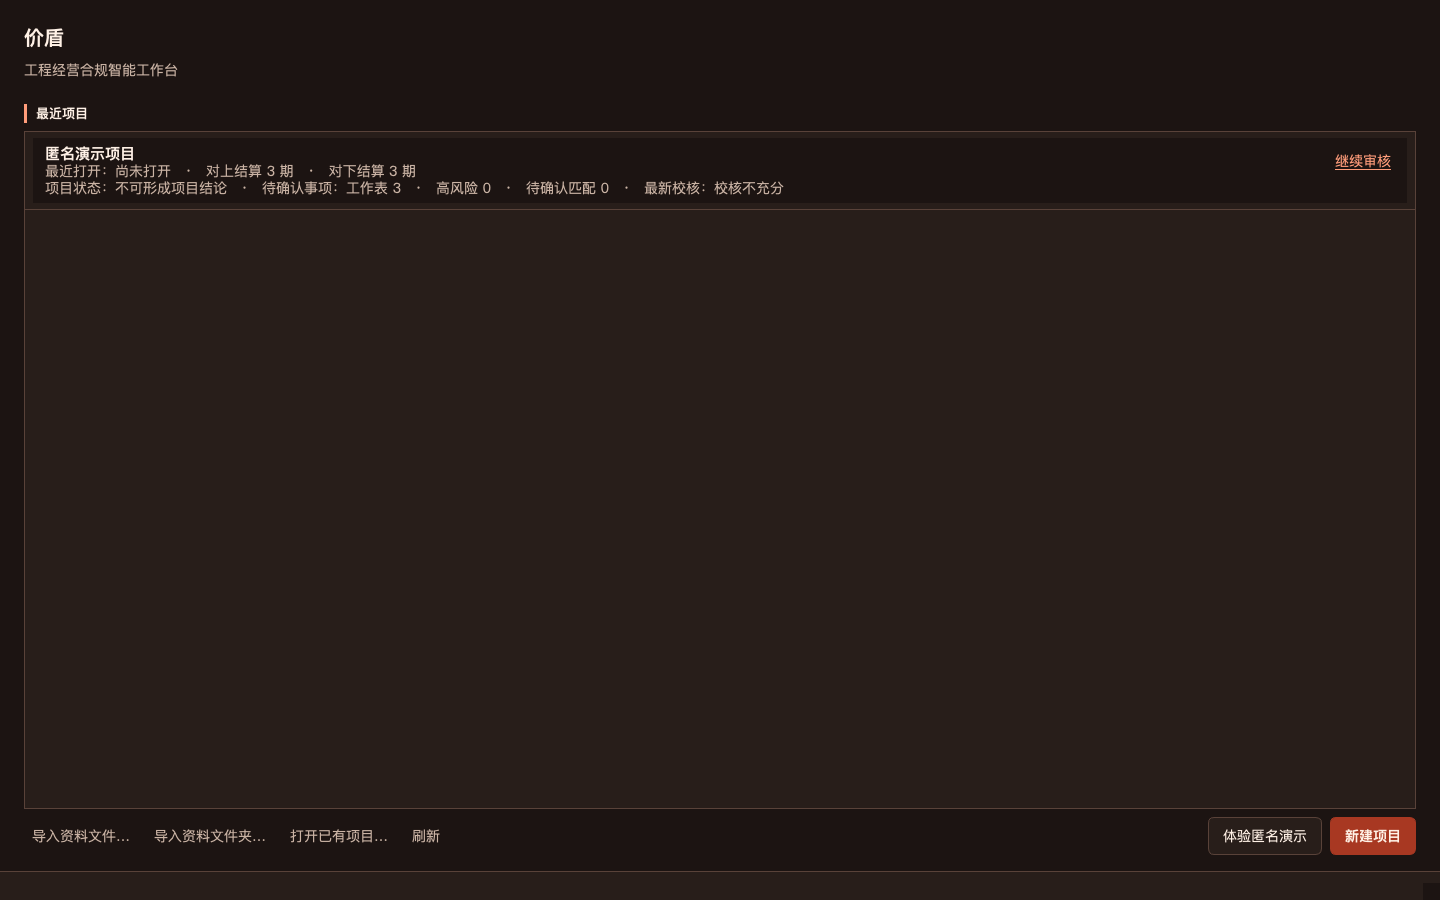
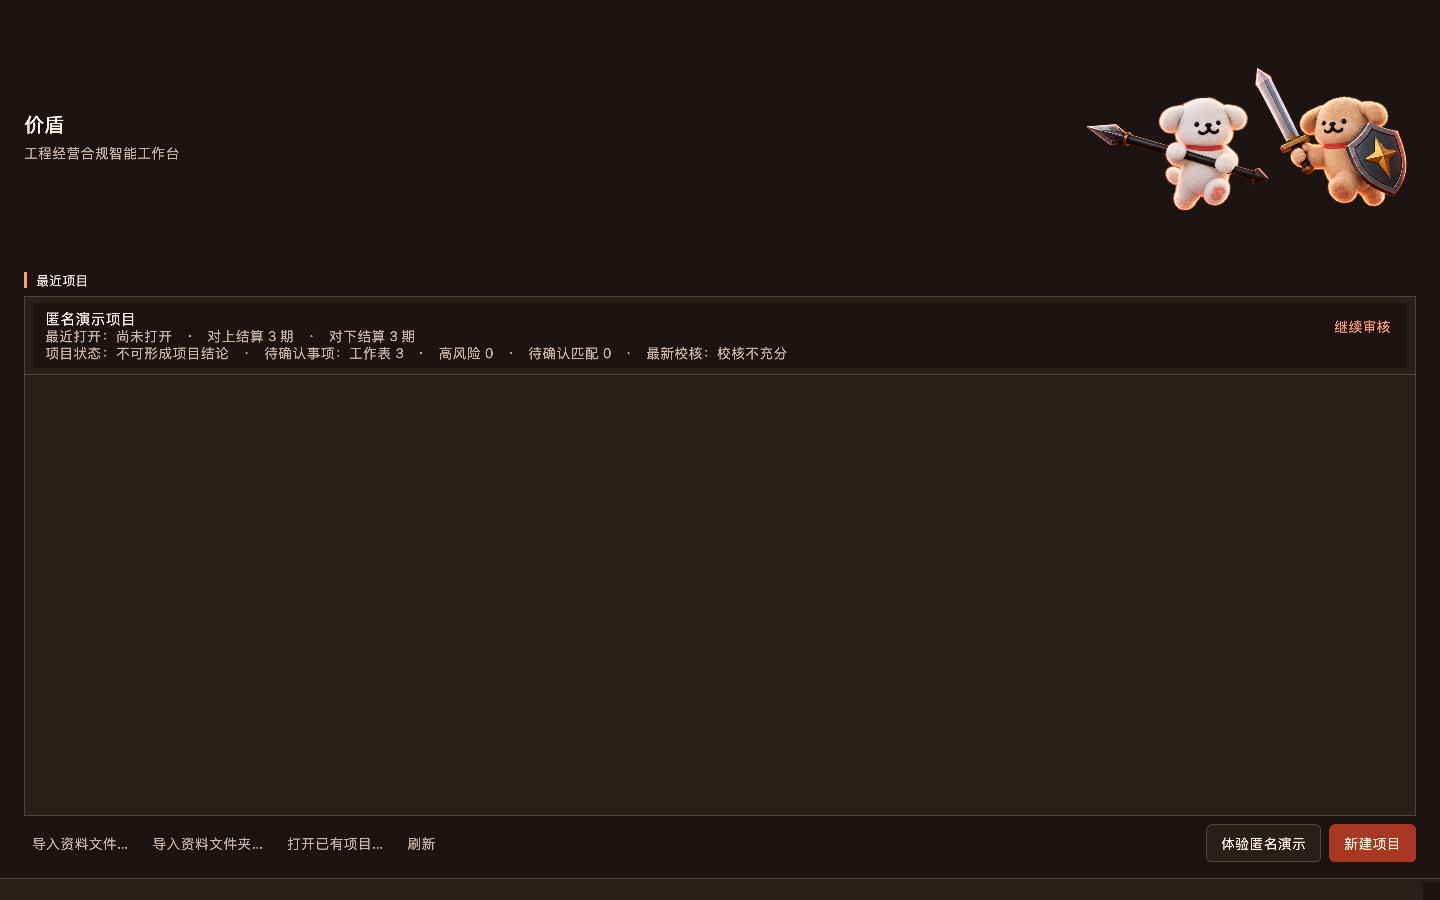
feat(ui): add original-style puppy duo to project home

diff --git a/src/jiadun/ui/main_window.py b/src/jiadun/ui/main_window.py
@@ -7,7 +7,7 @@ from datetime import datetime
 from pathlib import Path
 
 from PySide6.QtCore import QSettings, QSize, Qt
-from PySide6.QtGui import QIcon
+from PySide6.QtGui import QIcon, QPixmap
 from PySide6.QtWidgets import (
     QDialog,
     QDialogButtonBox,
@@ -154,6 +154,7 @@ class MainWindow(QMainWindow):
 
     # ---- 项目列表页 ----
     def _projects_page(self) -> QWidget:
+        from jiadun.platform.resources import home_mascot_path
         from jiadun.ui import theme
 
         central = QWidget()
@@ -167,8 +168,28 @@ class MainWindow(QMainWindow):
         subtitle = QLabel("工程经营合规智能工作台")
         subtitle.setStyleSheet(
             f"color: {theme.TEXT_SECONDARY}; background: transparent;")
-        layout.addWidget(title)
-        layout.addWidget(subtitle)
+        welcome = QHBoxLayout()
+        welcome_copy = QVBoxLayout()
+        welcome_copy.addStretch()
+        welcome_copy.addWidget(title)
+        welcome_copy.addWidget(subtitle)
+        welcome_copy.addStretch()
+        welcome.addLayout(welcome_copy, 1)
+
+        mascot = QLabel()
+        mascot.setObjectName("homeMascot")
+        mascot.setAccessibleName("两只小狗：小白与鸡毛")
+        mascot.setAlignment(Qt.AlignCenter)
+        mascot.setFixedSize(336, 224)
+        pixmap = QPixmap(str(home_mascot_path()))
+        if pixmap.isNull():
+            raise RuntimeError("首页双小狗插图无法读取，请检查安装包资源是否完整")
+        ratio = self.devicePixelRatioF()
+        pixmap = pixmap.scaled(mascot.size() * ratio, Qt.KeepAspectRatio, Qt.SmoothTransformation)
+        pixmap.setDevicePixelRatio(ratio)
+        mascot.setPixmap(pixmap)
+        welcome.addWidget(mascot)
+        layout.addLayout(welcome)
         layout.addSpacing(theme.SP_L)
         layout.addWidget(section_header("最近项目"))
 

diff --git a/tests/unit/test_ui_smoke.py b/tests/unit/test_ui_smoke.py
@@ -31,6 +31,44 @@ def test_new_project_dialog_values():
     assert name == "冒烟项目"
 
 
+def test_home_mascot_loads_from_source_and_bundle(tmp_path, monkeypatch):
+    import shutil
+    import sys
+
+    from PySide6.QtGui import QImage
+    from PySide6.QtWidgets import QApplication, QLabel
+
+    from jiadun import branding
+    from jiadun.platform import resources
+    from jiadun.ui.main_window import MainWindow
+
+    _app = QApplication.instance() or QApplication([])
+    source = resources.home_mascot_path()
+    image = QImage(str(source))
+    assert not image.isNull()
+    assert image.hasAlphaChannel()
+    assert image.pixelColor(0, 0).alpha() == 0
+    bundle = tmp_path / branding.RESOURCE_DIR_NAME
+    bundle.mkdir()
+    bundled_image = bundle / source.name
+    shutil.copyfile(source, bundled_image)
+    monkeypatch.setattr(sys, "frozen", True, raising=False)
+    monkeypatch.setattr(sys, "_MEIPASS", str(tmp_path), raising=False)
+    assert resources.home_mascot_path() == bundled_image
+    win = MainWindow()
+    try:
+        mascot = win.findChild(QLabel, "homeMascot")
+        assert mascot is not None
+        assert not mascot.pixmap().isNull()
+        assert mascot.accessibleName() == "两只小狗：小白与鸡毛"
+        assert win.stack.indexOf(mascot.parentWidget()) == 0
+    finally:
+        win.close()
+    bundled_image.unlink()
+    with pytest.raises(FileNotFoundError, match="双小狗"):
+        resources.home_mascot_path()
+
+
 def test_installed_entrypoint_constructs_main_window(monkeypatch):
     """真实 `jiadun` 启动入口必须直接构造主窗口，不能依赖隐式子模块属性。"""
     from PySide6.QtWidgets import QApplication

diff --git a/src/jiadun/platform/resources.py b/src/jiadun/platform/resources.py
@@ -22,6 +22,17 @@ def _bundle_base() -> Path:
     return Path(getattr(sys, "_MEIPASS", Path(sys.executable).parent))
 
 
+def home_mascot_path() -> Path:
+    """首页双小狗插图：开发模式与安装包使用同一资源。"""
+    if is_frozen():
+        path = _bundle_base() / branding.RESOURCE_DIR_NAME / "home-puppies.png"
+    else:
+        path = Path(__file__).resolve().parents[1] / "resources" / "home-puppies.png"
+    if not path.is_file():
+        raise FileNotFoundError("未找到首页双小狗插图，请检查安装包资源是否完整")
+    return path
+
+
 def bundled_demo_dir() -> Path:
     """安装包内置演示数据目录（与 examples/demo 同构：xlsx/docx + manifest.json）。"""
     if is_frozen():

diff --git a/scripts/generate_screenshots.py b/scripts/generate_screenshots.py
@@ -154,6 +154,9 @@ def main() -> int:
     win.show()
     win.resize(*WINDOW_SIZE)
 
+    # 首次启动首页：仅显示欢迎插图与导入入口，不扫描历史项目。
+    _shot(win, "00-首页.png")
+
     # 项目列表页（演示项目已列出；列表只显示项目名，不泄露路径）
     win.stack.setCurrentIndex(0)
     win.refresh_projects()

diff --git a/docs/UI_MASCOT_ASSET.md b/docs/UI_MASCOT_ASSET.md
@@ -1,0 +1,18 @@
+# 首页双小狗插图记录
+
+资源：`src/jiadun/resources/home-puppies.png`。内置 imagegen 生成，透明 PNG；用于首页欢迎区，角色为用户指定的“小白与鸡毛”。依据用户修正，按原图右侧小狗的短圆侧耳和脸型制作。原始参考图未打包。插图不含小熊。未引入运行时图片生成或网络请求。
+
+最终生成提示如下：
+
+```text
+Use case: precise-object-edit / background-extraction
+Asset type: transparent welcome illustration for a warm charcoal/red-orange desktop application.
+Input image 1 is the edit target and exact character identity reference.
+User correction: DO NOT redesign the dog's ears. They want exactly the dog in their original image, the warm beige character on the RIGHT holding sword/shield. The previous version wrongly gave both dogs long drooping ears. That must NOT happen.
+Primary request: extract the ORIGINAL RIGHT-HAND PUPPY from the image faithfully, preserving its exact face, head shape, SHORT rounded side ear puffs, proportions, fur, expression, red collar, sword and shield; remove the entire landscape. Place this original beige puppy on the RIGHT. Replace the original left bear with a WHITE-FUR version of the SAME ORIGINAL RIGHT-HAND puppy, keeping the SAME SHORT rounded side ear geometry, head and muzzle identity. The white puppy on LEFT holds the original black spear. Exactly TWO puppies, white Xiaobai and beige Jimao.
+Invariants: original right beige dog's face, eyes, nose, smiling mouth, short rounded side ears, compact plush proportions, sword and shield must remain faithful to original. Match both puppy heads to that original right dog. Don't invent breed anatomy. Ears are short compact round side puffs level with eyes, they DO NOT extend down to the shoulders, and NO long spaniel-like ears. The white puppy is the same dog recolored white, NOT the original left bear.
+Composition: horizontal transparent cutout of both full-body puppies, generous transparent margins around all weapons/feet, comparable sizes and comfortable spacing; preserve the reference dynamic pose and warm coral edge light.
+Scene/backdrop: truly transparent, no landscape, rocks, sky, fire, ground or shadows beyond soft tight cutout edge.
+Text: none.
+Avoid: long hanging ears, drooping ears, enlarged ears, redesigned faces, bear, third character, extra limbs, cropped props, text, logos, watermark.
+```

diff --git a/README_zh-CN.md b/README_zh-CN.md
@@ -9,8 +9,8 @@ Excel 导入 → 清单字段标准化 → 工程量/单价/总价校核 → 同
 → 对上对下差异 → 异常项识别 → Excel/Word 报告导出
 ```
 
-> 当前状态：**v0.1.32 预发行/预览候选**。七步主链和 Mac 图形界面已可运行，并提供
-> **未公证、ad-hoc 本地签名的 macOS DMG**（Apple Silicon 原生），同时提供未签名的 Windows x64 安装包与便携包。本版将全部工作台统一为暖炭黑与红橙主题，保留状态徽章语义。继承 v0.1.31 的控制基准比较结论入册功能
+> 当前状态：**v0.1.33 预发行/预览候选**。七步主链和 Mac 图形界面已可运行，并提供
+> **未公证、ad-hoc 本地签名的 macOS DMG**（Apple Silicon 原生），同时提供未签名的 Windows x64 安装包与便携包。本版在项目首页增加“小白与鸡毛”双小狗欢迎插图，沿用暖炭黑与红橙主题，保留状态徽章语义。继承 v0.1.31 的控制基准比较结论入册功能
 > （按基准快照语义历史化、工作台比较后自动入册且失败明确提示、Excel 异常清单/
 > 控制基准比较导出页/Word Top 风险全覆盖），并以 defusedxml 加固 OOXML 部件解析
 > （拒绝内部 DTD/实体，fail-closed）。前一版建立的合同事实确认生命周期（抽取条款一律候选、
@@ -25,8 +25,10 @@ Excel 导入 → 清单字段标准化 → 工程量/单价/总价校核 → 同
 > 差异雷达、镜像匹配、受控规则和知识库、项目版本链及历史综合单价提示。
 > 真实扫描件 OCR 质量、扫描页逐条对照复核、真实 Microsoft Excel/WPS、四种 Office 环境、
 > 真实黄金案例、现场性能、签名和公证仍未完成，暂不标记为正式生产版。
-> 详见[发布说明](docs/RELEASE_NOTES_v0.1.32.md)和
+> 详见[发布说明](docs/RELEASE_NOTES_v0.1.33.md)和
 > [三分钟上手](docs/QUICKSTART_zh-CN.md)。
+
+![首页双小狗](examples/screenshots/00-首页.png)
 
 ![期次概览](examples/screenshots/03-期次概览.png)
 

diff --git a/docs/RELEASE_NOTES_v0.1.33.md b/docs/RELEASE_NOTES_v0.1.33.md
@@ -1,0 +1,39 @@
+# Jiadun（价盾）v0.1.33 — 双小狗首页预发行
+
+## 本版定位
+
+v0.1.33 基于 v0.1.32，在启动后的项目首页欢迎区加入“小白与鸡毛”双小狗插图。
+图案只有两只小狗，按参考图右侧小狗的短圆侧耳和脸型制作，沿用毛绒质感与红橙暖光；
+透明背景融入现有工作台。
+本版保持预览候选 / Prerelease，不代表正式生产版。
+
+## 主要变化
+
+- 首页显示白色“小白”与米黄色“鸡毛”，已列出项目时也保留欢迎插图。
+- 插图随 macOS arm64 与 Windows x64 软件包分发，离线显示。
+- 平台层统一定位源码与打包资源；资源缺失或损坏会明确报错。
+- 新增透明背景、源码/打包路径与实际控件加载回归检查，补齐首次启动首页截图。
+
+沿用 v0.1.32 的工作台颜色与业务功能。无计算口径变化，无数据库 migration。
+回滚可重新安装 v0.1.32；本版不改动原始文件。
+
+## 插图来源
+
+插图由内置 imagegen 根据用户提供的参考图生成。用户指定两个角色为“小白”和
+“鸡毛”，本图不代表官方角色素材或品牌授权。原始参考图片未随安装包分发。
+生成提示与资源记录见 [首页插图记录](UI_MASCOT_ASSET.md)。
+
+## 验证范围
+
+发布前运行相关界面测试、全量 pytest、Ruff、版本/发布说明一致性和合成黄金回归，
+并截取真实 Qt 界面核验布局。两个平台的构建工作流验证安装包，发布资产提供
+SHA256SUMS.txt；自动化与合成样例不代替真实业务和 Office 环境验收。
+
+## 仍未关闭的生产门槛
+
+- 真实脱敏黄金案例与真实扫描 PDF OCR 质量回归。
+- macOS Excel、Windows Excel、macOS WPS、Windows WPS 真机验收。
+- 1万、5万、20万行现场性能与异常恢复验证。
+- Windows 代码签名与 macOS 公证。
+
+以上门槛继续保留 PENDING / NOT VERIFIED；本版继续为预发行。

diff --git a/README.md b/README.md
@@ -11,9 +11,10 @@ Excel import → field standardization → quantity/unit-price/amount checks
 → anomaly detection → Excel/Word reports
 ```
 
-> **Status: v0.1.32 preview/prerelease.** The seven-step core workflow, the macOS GUI and an
-> **unsigned, ad-hoc signed macOS DMG** (Apple Silicon) and **unsigned Windows x64 packages** (per-user setup.exe + portable zip) are available. The v0.1.32
-> candidate adds a unified warm charcoal / red-orange desktop theme. It retains the
+> **Status: v0.1.33 preview/prerelease.** The seven-step core workflow, the macOS GUI and an
+> **unsigned, ad-hoc signed macOS DMG** (Apple Silicon) and **unsigned Windows x64 packages** (per-user setup.exe + portable zip) are available. The v0.1.33
+> candidate adds a two-puppy welcome illustration (Xiaobai and Jimao) to the project
+> home page, retaining the unified warm charcoal / red-orange desktop theme. It retains the
 > v0.1.31 implementation, which routes upward control-baseline cap-comparison conclusions into
 > the audit-finding center (snapshot semantics per baseline, automatic entry from the
 > workbench dialog with fail-closed error surfacing, Excel anomaly list / dedicated
@@ -35,8 +36,10 @@ Excel import → field standardization → quantity/unit-price/amount checks
 > historical price hints. Real WPS/Excel environment verification, sanitized real-case
 > regression, real scan-PDF OCR quality, per-page OCR candidate review and production
 > signing remain open release gates. See the
-> [release notes](docs/RELEASE_NOTES_v0.1.32.md) and the
+> [release notes](docs/RELEASE_NOTES_v0.1.33.md) and the
 > [3-minute quick start (中文)](docs/QUICKSTART_zh-CN.md).
+
+![首页双小狗](examples/screenshots/00-首页.png)
 
 ![期次概览](examples/screenshots/03-期次概览.png)
 

diff --git a/ROADMAP.md b/ROADMAP.md
@@ -13,7 +13,7 @@ GitHub 仓库地址、已有 v0.x tag、Release、远端资产和历史项目目
 ## 状态图例
 ✅ 完成 | 🔨 进行中 | ⬜ 未开始
 
-当前预发行版本：**v0.1.32**（统一暖炭黑与红橙主题，继承 v0.1.31 功能；
+当前预发行版本：**v0.1.33**（项目首页双小狗欢迎插图，沿用 v0.1.32 主题与已有功能；
 生产门槛与遗留项见下文各版本章节）。
 
 | Phase | 内容 | 状态 |
@@ -352,6 +352,16 @@ v0.1.17 在 v0.1.16 真实资料实测基线上继续收紧可信度证据（黄
 
 工作台暖炭黑与红橙主题沿用全局 QSS 与 Qt palette，覆盖七个标签页、项目列表和弹窗；
 成功、警告、风险继续保持可区分的状态标签。仅改变展示，不改变计算或数据结构。
+
+- [ ] 真实脱敏黄金案例与扫描 PDF OCR 质量。
+- [ ] macOS Excel / Windows Excel / macOS WPS / Windows WPS 真机验收。
+- [ ] 1万 / 5万 / 20万行现场性能与异常恢复。
+- [ ] Windows 代码签名与 macOS 公证。
+
+## v0.1.33 生产门槛
+
+首页加入“小白与鸡毛”双小狗欢迎插图，沿用 v0.1.32 的主题和业务功能。
+插图离线随包分发；生产门槛保持未关闭。
 
 - [ ] 真实脱敏黄金案例与扫描 PDF OCR 质量。
 - [ ] macOS Excel / Windows Excel / macOS WPS / Windows WPS 真机验收。

diff --git a/CHANGELOG.md b/CHANGELOG.md
@@ -11,6 +11,16 @@ All notable changes. Format based on Keep a Changelog; versioning: SemVer.
 
 后续改动将在这里记录；预发行/预览候选不代表正式生产能力。
 
+## [0.1.33] - 2026-10-01
+
+### Added
+
+- 项目首页欢迎区增加“小白与鸡毛”双小狗插图，仅有两只小狗。
+- 透明 PNG 随 macOS/Windows 安装包分发，资源定位与缺失检查共用平台层。
+- 新增源码/打包资源加载与透明背景回归检查，并补齐首次启动首页截图。
+
+沿用 v0.1.32 统一主题；无计算口径或数据库结构变化，本版继续为预发行。
+
 ## [0.1.32] - 2026-10-01
 
 ### Changed

diff --git a/ARCHITECTURE.md b/ARCHITECTURE.md
@@ -1,6 +1,6 @@
 # ARCHITECTURE.md — Jiadun（价盾）架构设计
 
-> 当前实现参考：v0.1.32 预发行候选。架构变更须新增 ADR。
+> 当前实现参考：v0.1.33 预发行候选。架构变更须新增 ADR。
 
 ## 1. 总体形态
 
